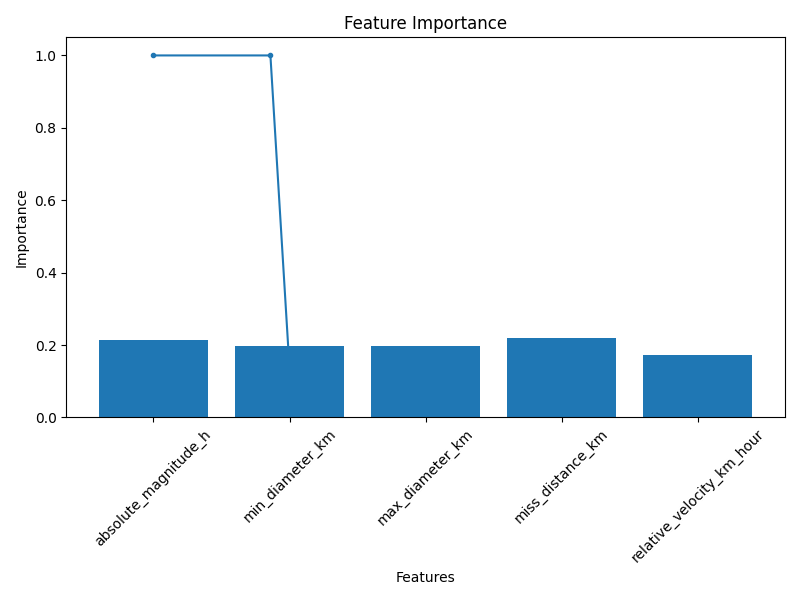
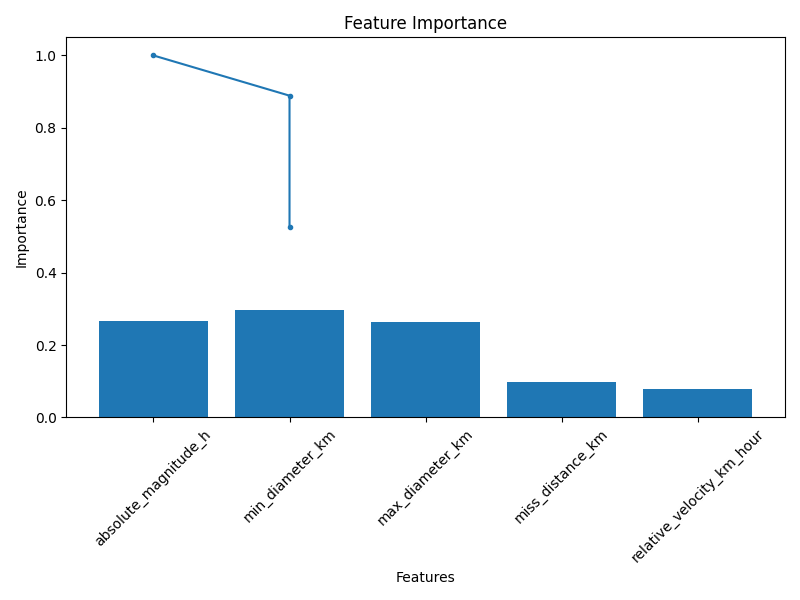
improving model & ui

Changed region(s): [[0.125, 0.09, 0.9375, 0.66]]

diff --git a/frontend/build/model.html b/frontend/build/model.html
@@ -51,7 +51,10 @@
             <p>
                 <strong>Accuracy:</strong> {{ accuracy }}<br>
                 <strong>Precision:</strong> {{ precision }}<br>
-                <strong>Recall:</strong> {{ recall }}
+                <strong>Recall:</strong> {{ recall }}<br>
+                <strong>F1 Score:</strong> {{ f1 }}<br>
+                <strong>AUC-ROC:</strong> {{ auc_roc }}<br>
+                <strong>AUC-PR:</strong> {{ auc_pr }}
             </p>
         </div>
 

diff --git a/model/model.py b/model/model.py
@@ -5,7 +5,7 @@ import seaborn as sns
 from pymongo import MongoClient
 from sklearn.model_selection import train_test_split
 from sklearn.ensemble import RandomForestClassifier
-from sklearn.metrics import accuracy_score, precision_score, recall_score, confusion_matrix,  precision_recall_curve
+from sklearn.metrics import accuracy_score, precision_score, recall_score, confusion_matrix,  precision_recall_curve, roc_curve, f1_score, roc_auc_score, auc, roc_curve
 
 #COMMENTED OUT AS DATA SHALL BE LOADED FROM MONGO DB TO NOT EXCEED THE NASA API LIMIT
 #def load_neo_data(api_key):
@@ -71,19 +71,17 @@ def balance_dataset(df):
     num_hazardous = len(hazardous_asteroids)
     num_non_hazardous = len(non_hazardous_asteroids)
     
-    # Undersampling or oversampling
-    if num_hazardous < num_non_hazardous:  # Undersampling
-        # Sample non-hazardous asteroids equal to the number of hazardous ones
+    if num_hazardous < num_non_hazardous: #undersampling
         sampled_non_hazardous = non_hazardous_asteroids.sample(n=num_hazardous, random_state=42)
-        # Combine sampled non-hazardous with all hazardous asteroids
         balanced_df = pd.concat([sampled_non_hazardous, hazardous_asteroids])
-    else:  # Oversampling
-        # Sample hazardous asteroids with replacement equal to the number of non-hazardous ones
+        
+    else: # Oversampling
         sampled_hazardous = hazardous_asteroids.sample(n=num_non_hazardous, replace=True, random_state=42)
-        # Combine sampled hazardous with all non-hazardous asteroids
         balanced_df = pd.concat([non_hazardous_asteroids, sampled_hazardous])
     
-    # Shuffle the dataset
+    
+    print("hello it works")
+    # Shuffle dataset
     balanced_df = balanced_df.sample(frac=1, random_state=42).reset_index(drop=True)
     
     return balanced_df
@@ -112,6 +110,9 @@ def evaluate_model(model, X_test, y_test, df):
     precision = round(precision_score(y_test, predictions), 2)
     recall = round(recall_score(y_test, predictions), 2)
     
+    # Compute F1 score
+    f1 = round(f1_score(y_test, predictions), 2)
+    
     # Confusion matrix
     cm = confusion_matrix(y_test, predictions)
     plt.figure(figsize=(8, 6))
@@ -124,6 +125,7 @@ def evaluate_model(model, X_test, y_test, df):
 
     # Precision-Recall curve
     precision_curve, recall_curve, _ = precision_recall_curve(y_test, predictions)
+    pr_auc = round(auc(recall_curve, precision_curve), 2)
     plt.figure(figsize=(8, 6))
     plt.plot(recall_curve, precision_curve, marker='.')
     plt.xlabel('Recall')
@@ -134,7 +136,7 @@ def evaluate_model(model, X_test, y_test, df):
     
     # Feature importance
     feature_importances = model.feature_importances_
-    plt.bar(dataframe.columns[:-1], feature_importances)
+    plt.bar(df.columns[:-1], feature_importances)
     plt.xlabel('Features')
     plt.ylabel('Importance')
     plt.title('Feature Importance')
@@ -143,12 +145,25 @@ def evaluate_model(model, X_test, y_test, df):
     plt.savefig('frontend/static/feature_importance_plot.png')
     print("Saved Feature Importance plot")
     
-    print("Accuracy: ", accuracy)
-    print("Precision: ", precision)
-    print("Recall: ", recall)
-    
+   # ROC curve
+    fpr, tpr, _ = roc_curve(y_test, predictions)
+    roc_auc = round(auc(fpr, tpr), 2)
+    plt.figure(figsize=(8, 6))
+    plt.plot(fpr, tpr, marker='.')
+    plt.xlabel('False Positive Rate')
+    plt.ylabel('True Positive Rate')
+    plt.title('ROC Curve')
+    plt.savefig('frontend/static/roc_curve')
+    print("Saved ROC Curve plot")
 
-    return accuracy, precision, recall, cm
+    print("Accuracy:", accuracy)
+    print("Precision:", precision)
+    print("Recall:", recall)
+    print("F1 Score:", f1)
+    print("AUC-ROC:", roc_auc)
+    print("AUC-PR:", pr_auc)
+
+    return accuracy, precision, recall, f1, roc_auc, pr_auc, cm
 
 
 def predict_danger(model, absolute_magnitude, min_diameter, max_diameter, miss_distance, relative_velocity):
@@ -165,7 +180,7 @@ def predict_danger(model, absolute_magnitude, min_diameter, max_diameter, miss_d
 if __name__ == "__main__":
     neo_data = load_neo_data()
     df = preprocess_data(neo_data)
-    balance_dataset (df)
+    balanced_dataset = balance_dataset (df)
     model, X_test, y_test = train_model(df)
-    accuracy = evaluate_model(model, X_test, y_test, df)
+    accuracy = evaluate_model(model, X_test, y_test, balanced_dataset)
 

diff --git a/app.py b/app.py
@@ -1,35 +1,31 @@
 from flask import Flask, jsonify, render_template, request
-from model.model import load_neo_data, preprocess_data, train_model, evaluate_model, save_feature_importance_plot, predict_danger, balance_dataset, model
+from model.model import load_neo_data, preprocess_data, train_model, evaluate_model, predict_danger, balance_dataset, model
 
-# Ausführen von Code aus model.py
-neo_data = load_neo_data()  # Laden der NEO-Daten
-df = preprocess_data(neo_data)  # Vorverarbeitung der Daten
-balance_dataset (df)
-model, X_test, y_test = train_model(df)  # Trainieren des Modells
-accuracy = evaluate_model(model, X_test, y_test)  # Evaluieren der Modellgenauigkeit
-save_feature_importance_plot(model, df, 'frontend/static/feature_importance_plot.png')  # Speichern des Feature-Importance-Plots
+neo_data = load_neo_data()
+df = preprocess_data(neo_data)
+balanced_dataset = balance_dataset (df)
+model, X_test, y_test = train_model(df)
+accuracy = evaluate_model(model, X_test, y_test, balanced_dataset)
 
-# Initialisierung der Flask-App
 app = Flask(__name__, static_url_path='/', static_folder='frontend', template_folder='frontend/build')
 
 # Routen für die verschiedenen Seiten der Webanwendung definieren
-
-# Hauptseite
+# Main
 @app.route('/')
 @app.route('/index.html')
 def main_page():
     return render_template('index.html')
 
-# Seite des Modells
+# Model page
 @app.route('/model.html')
 def model_page():
     neo_data = load_neo_data()
     df = preprocess_data(neo_data)
     balanced_df = balance_dataset(df)
     model, X_test, y_test = train_model(balanced_df)
-    accuracy, precision, recall, cm = evaluate_model(model, X_test, y_test)
+    accuracy, precision, recall, f1, auc_roc, auc_pr, cm = evaluate_model(model, X_test, y_test, balanced_df)
     
-    return render_template('model.html', accuracy=accuracy, precision=precision, recall=recall, cm=cm)
+    return render_template('model.html', accuracy=accuracy, precision=precision, recall=recall, f1=f1, auc_roc=auc_roc, auc_pr=auc_pr, cm=cm)
 
 # API-Endpunkt für die Vorhersage
 @app.route('/predict', methods=['POST'])
